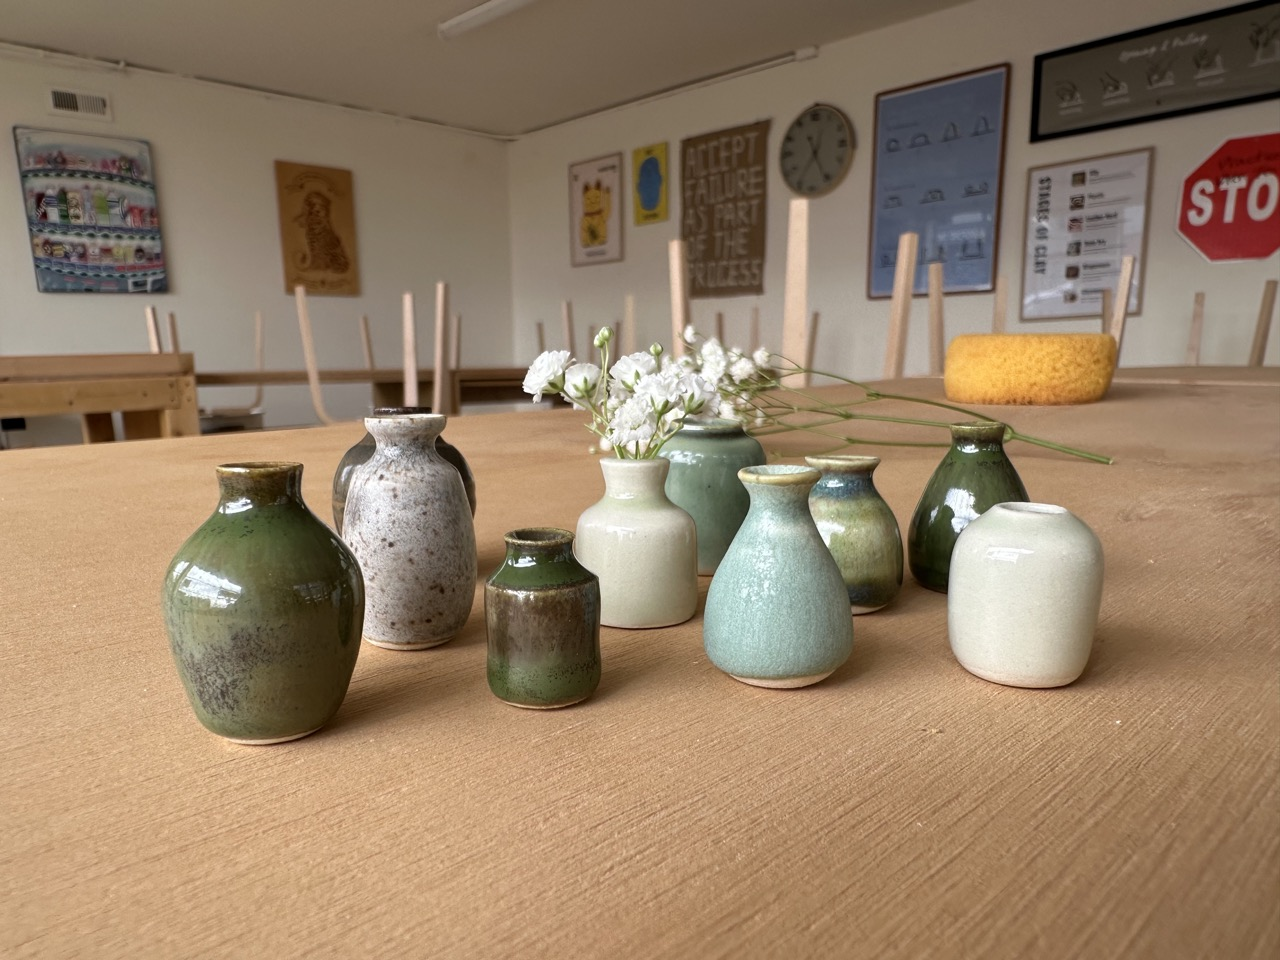
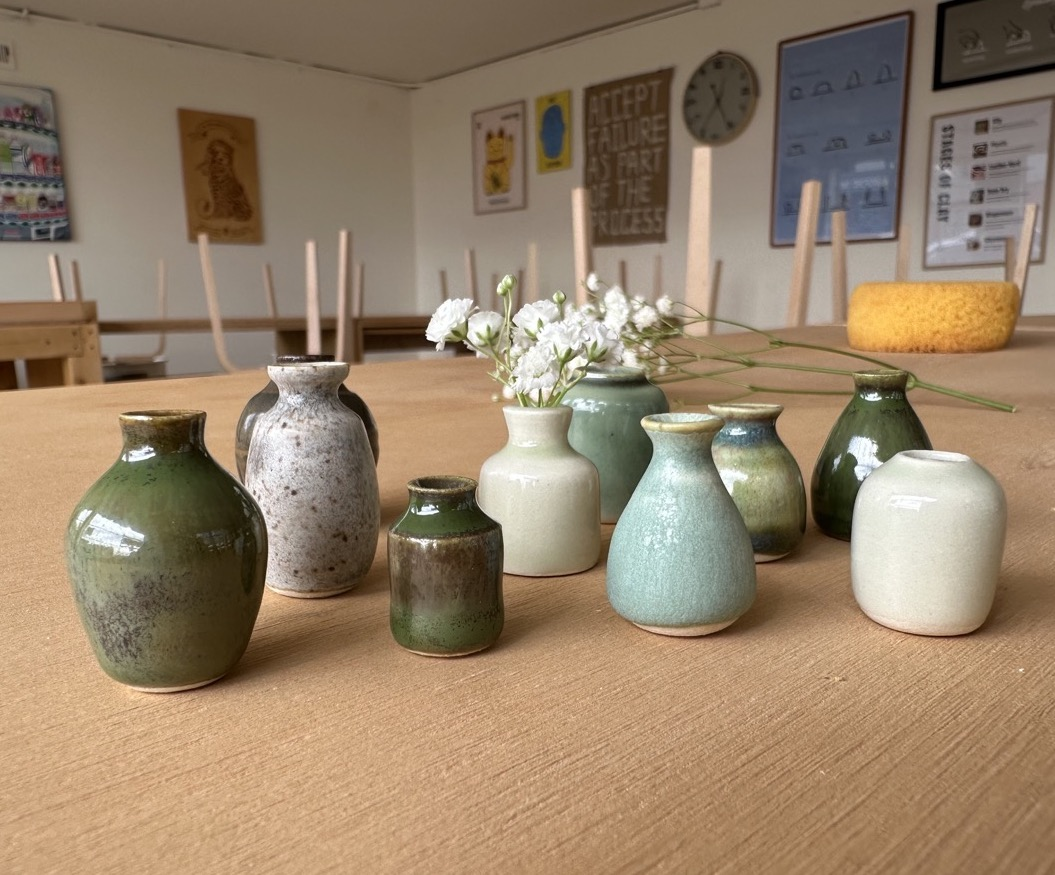
update pottery

diff --git a/explorations/pottery/index.html b/explorations/pottery/index.html
@@ -82,7 +82,7 @@
 
 
     <div class="content">
-      <p>A mini pot throwing practice. Much of my 2024-2025 was spent being obsessed with ceramics and giving it a shot to try to sell my works. I ended the year with two market sales and while I&rsquo;m currently on a break, I will surely be back one day.</p>
+      <p>A mini pot throwing practice. Much of my 2024-2025 was spent being obsessed with ceramics and giving it a shot to try to sell my works. I ended the year with two market sales and while I&rsquo;m currently on a break, I will surely be back one day!</p>
 <p>
 
 <div class="row">
@@ -102,7 +102,7 @@
     
       
     
-      <img src="/images/explorations/pottery/IMG_3530%20Medium.jpeg"  alt=""/>
+      <img src="/images/explorations/pottery/IMG_3530%20Large.jpeg"  alt=""/>
       
         
     
